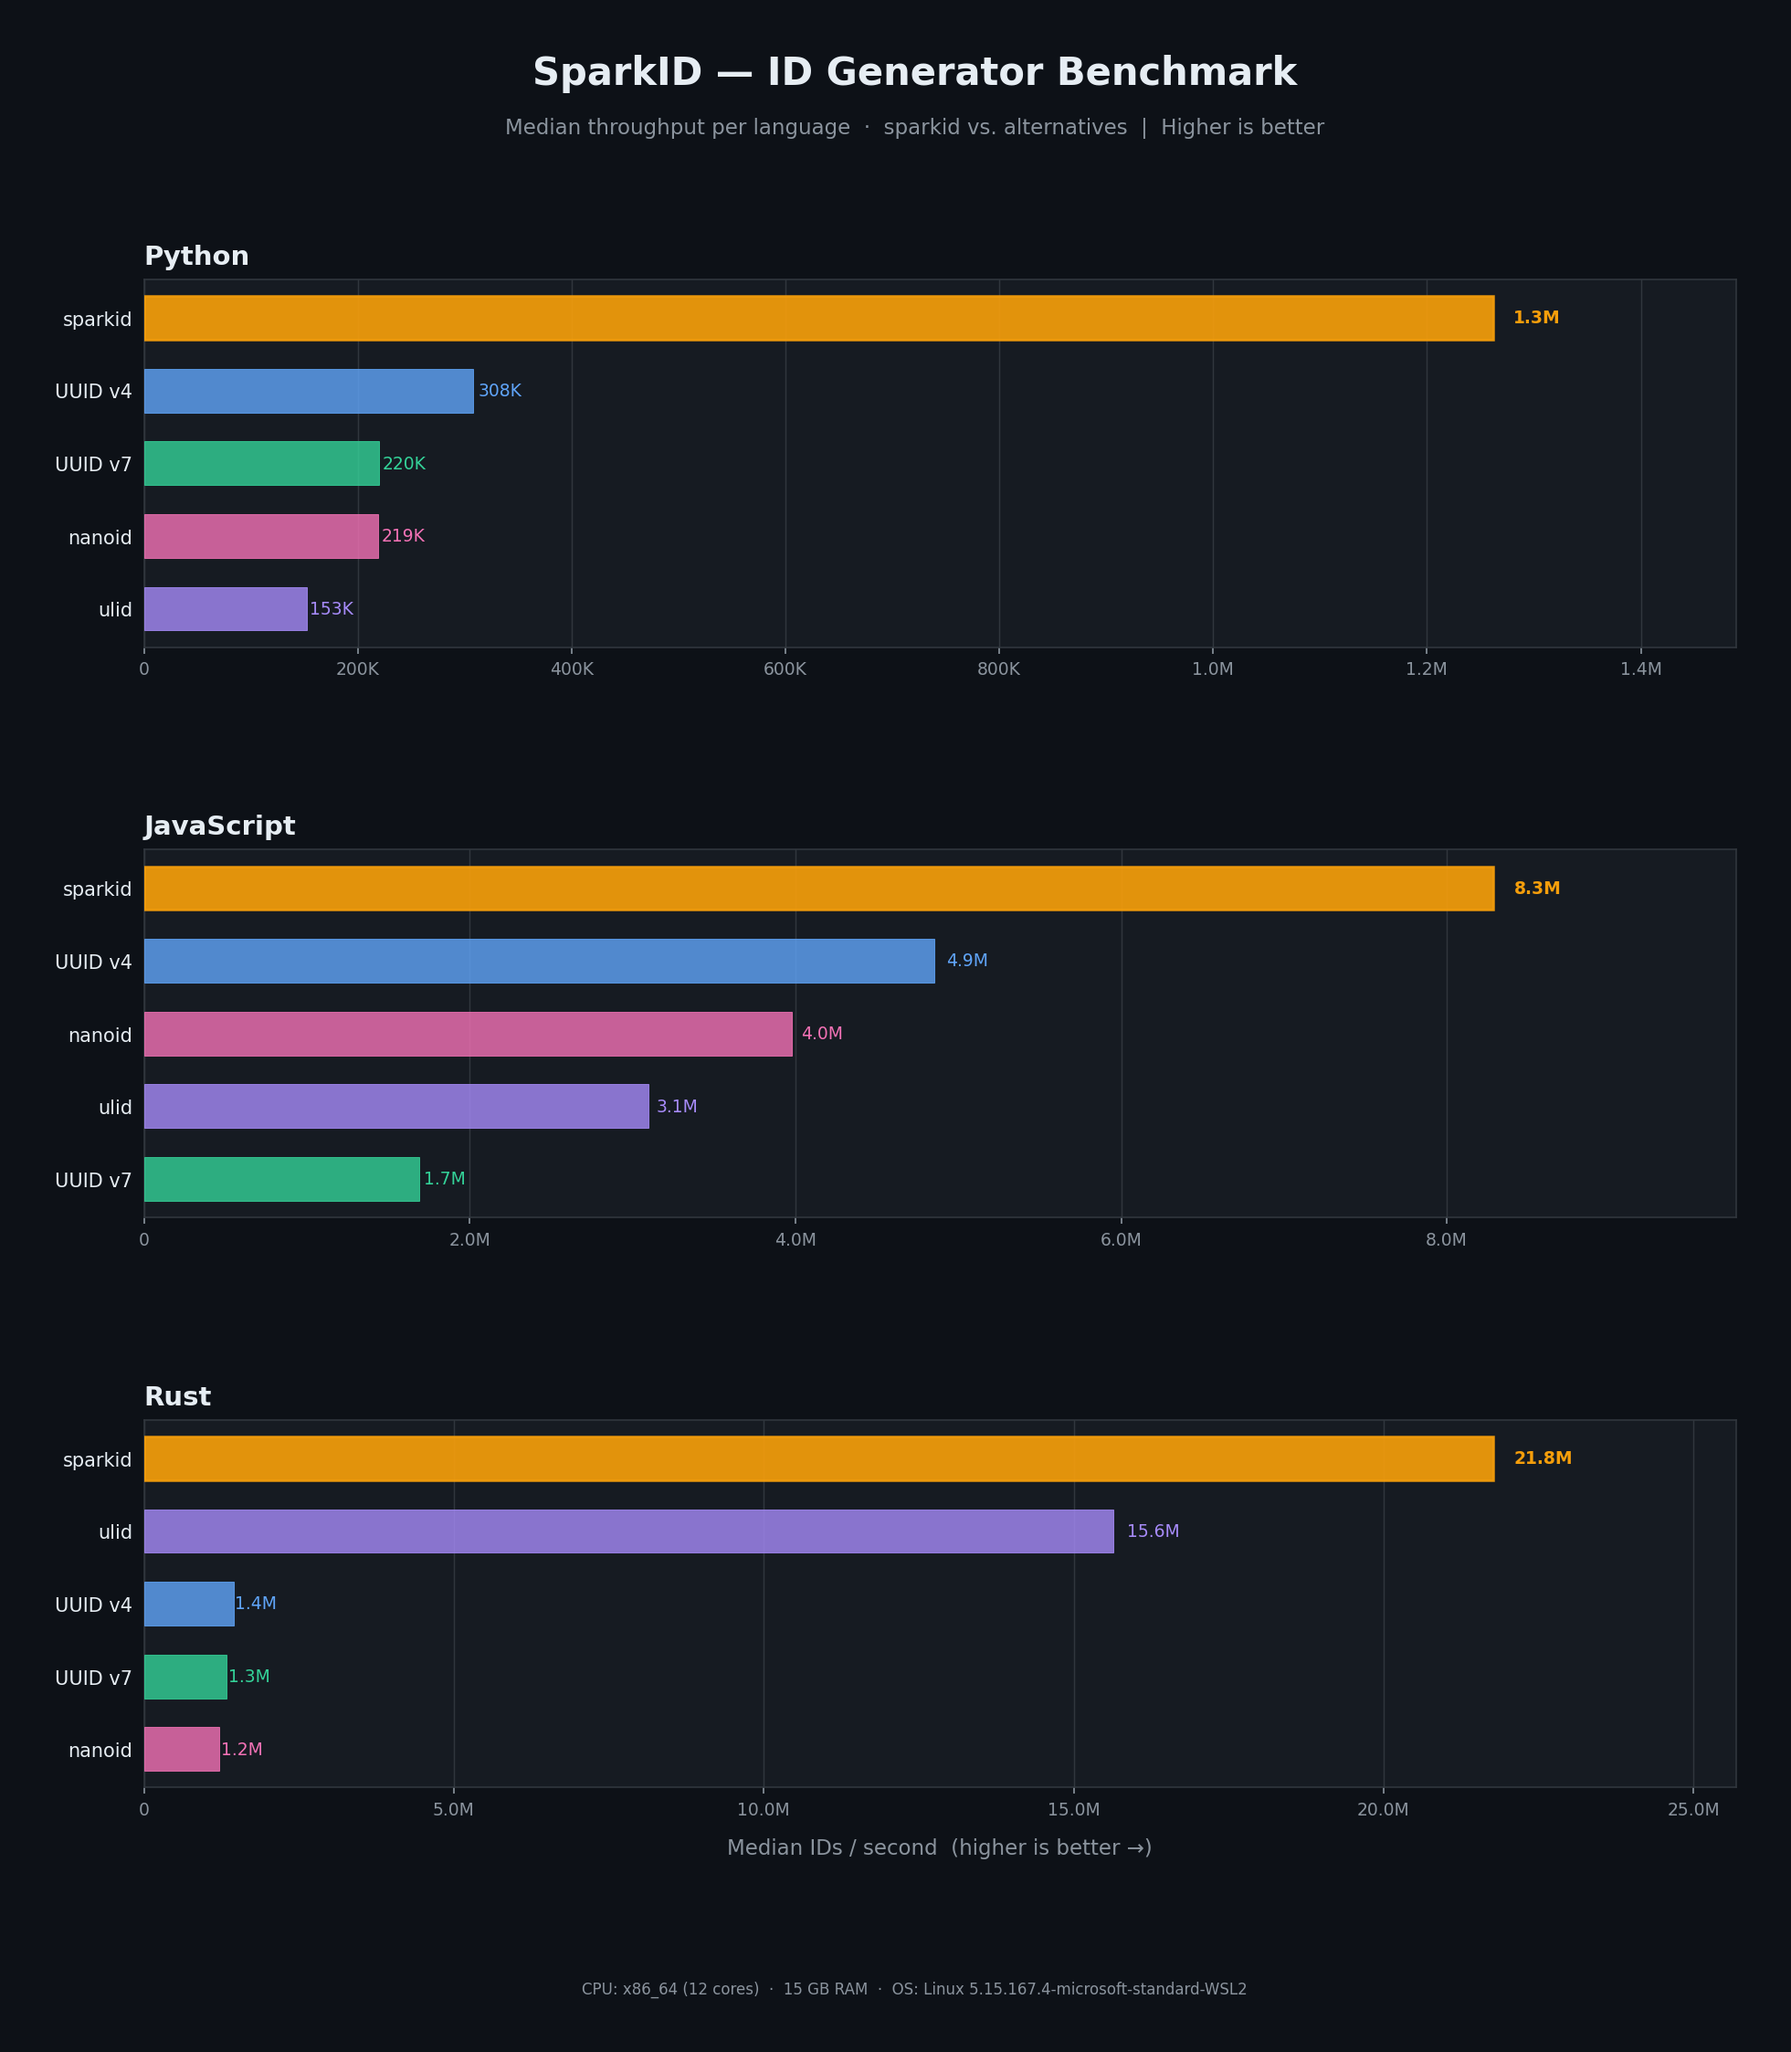
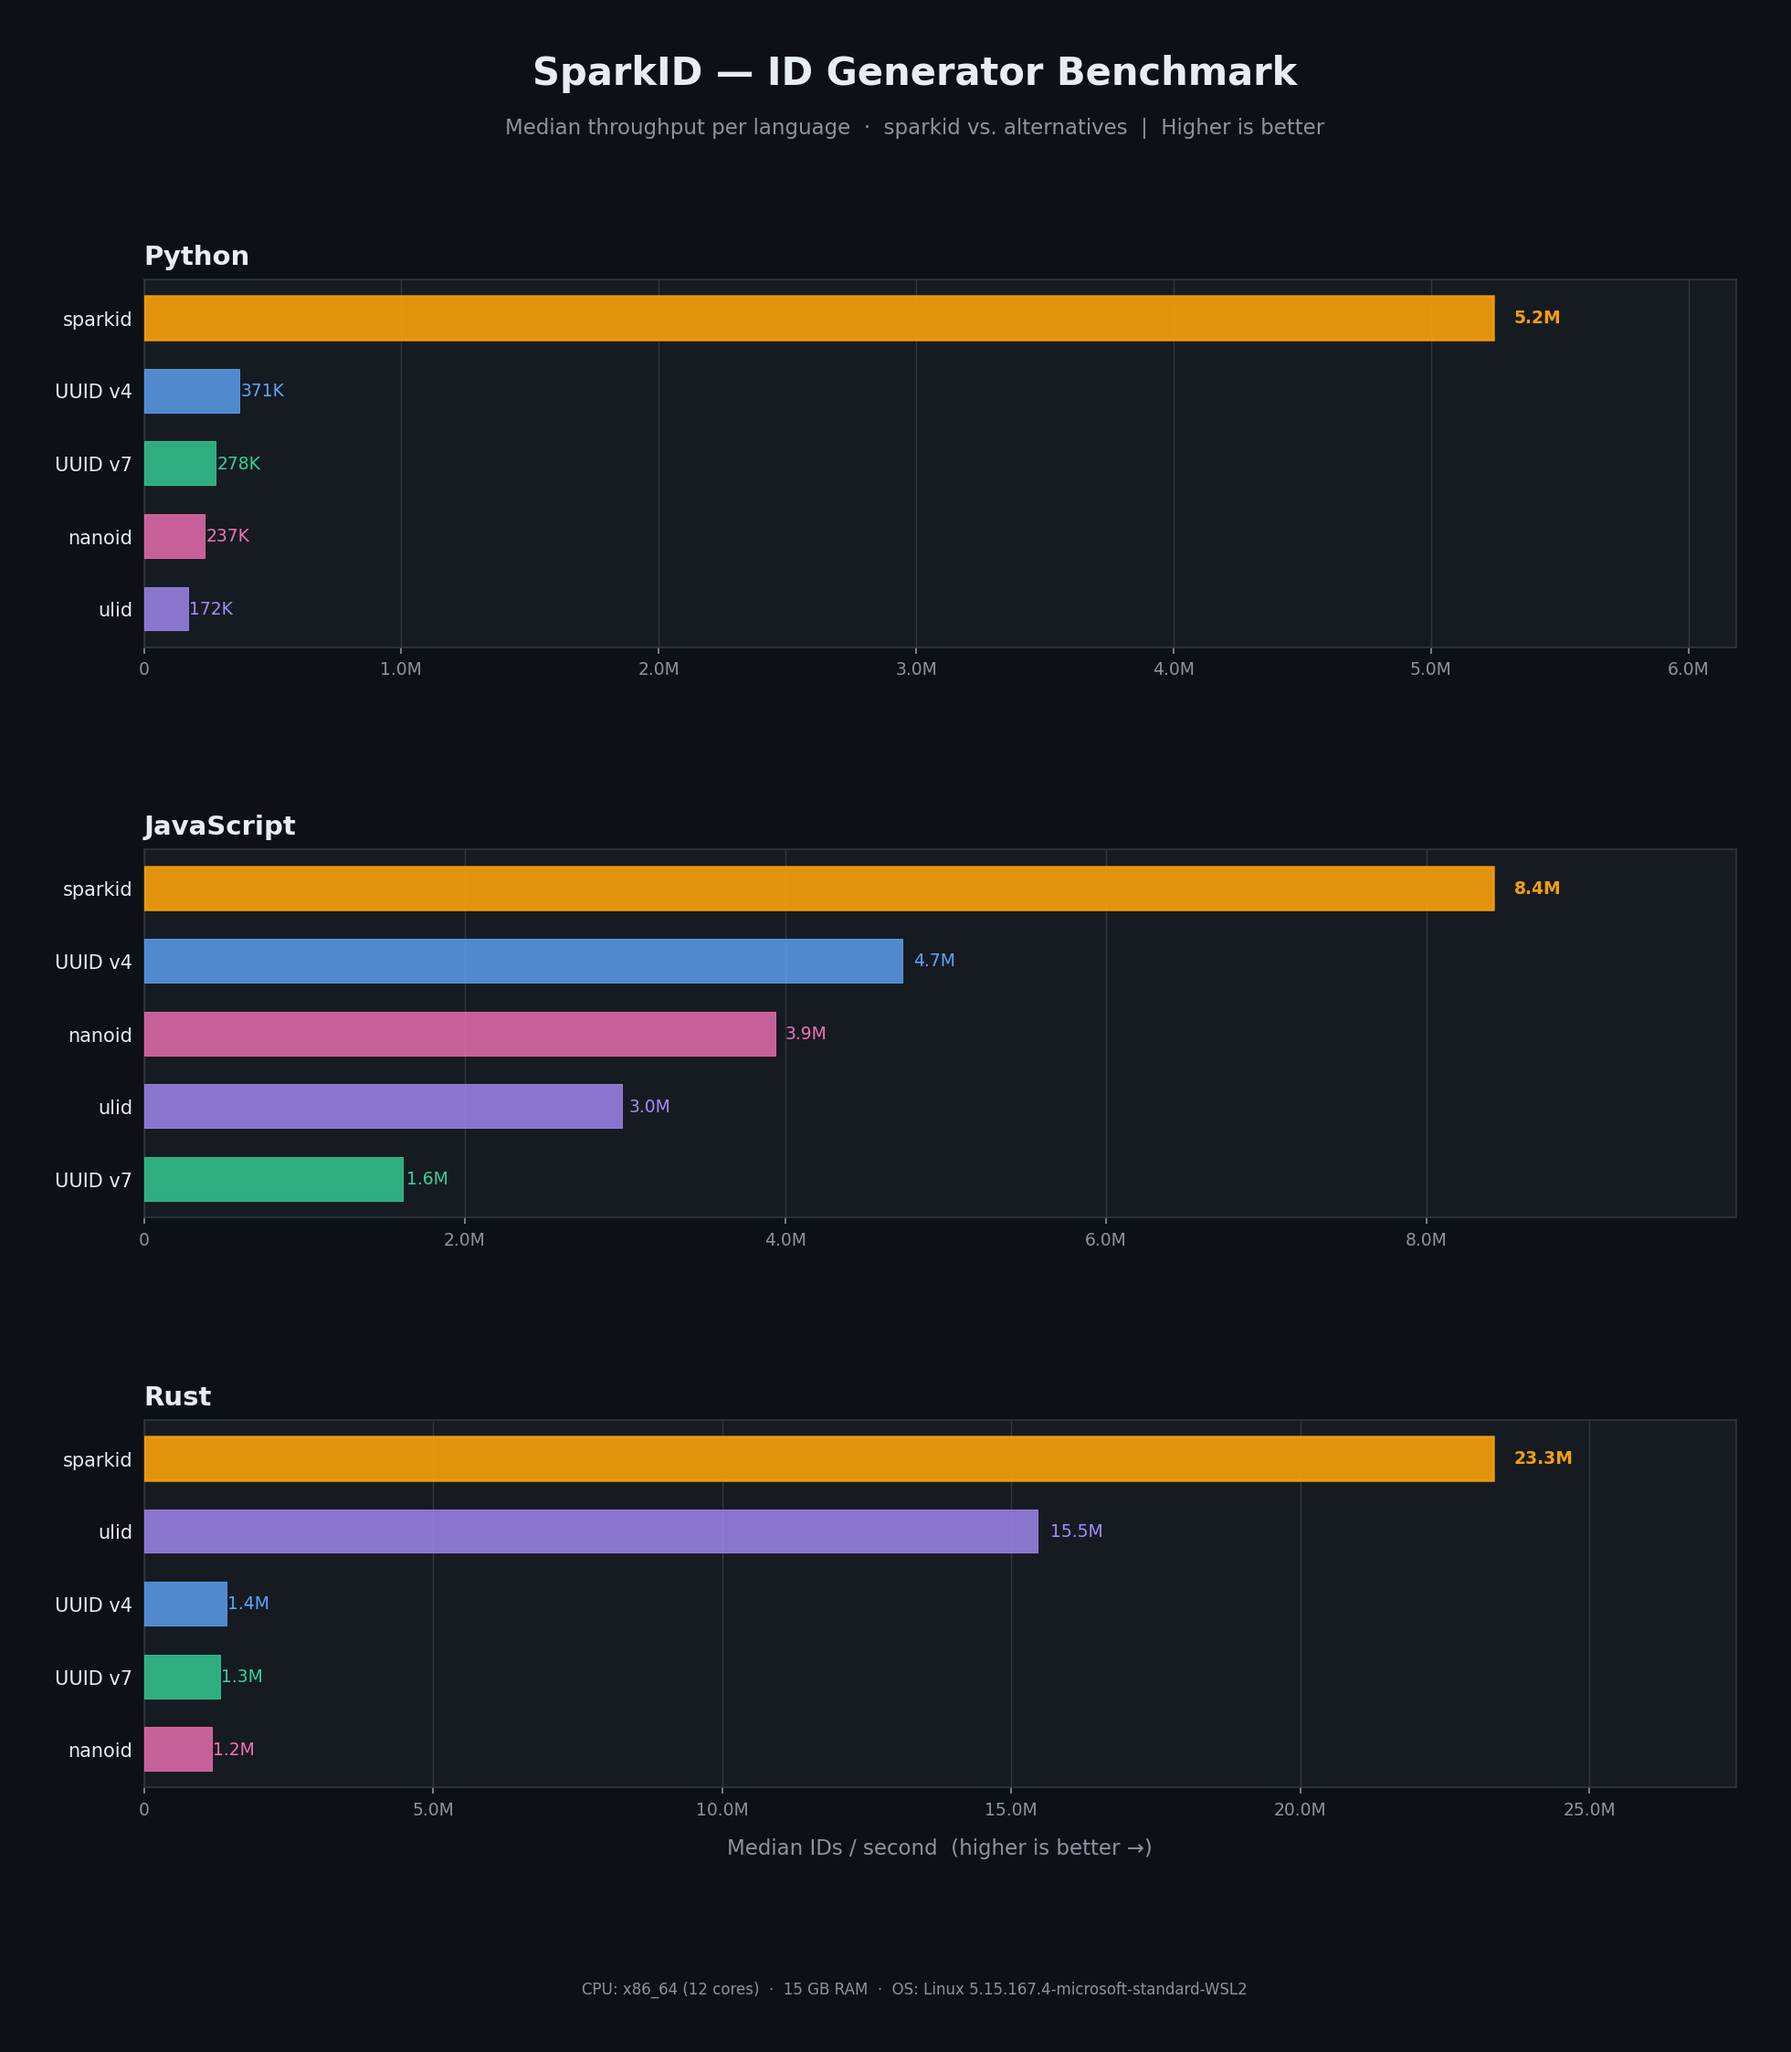
perf(python): optimize PyO3 bridge for ~14% faster ID generation
- Use UnsafeCell instead of RefCell in thread_local (eliminates
  runtime borrow check on every call)
- Direct PyUnicode_New FFI for ASCII string creation (bypasses
  PyUnicode_DecodeUTF8 code path)
- Add SparkId::encode_utf8() to write directly into caller buffer,
  removing from_packed intermediate and deduplicating the unpack loop
- Set codegen-units = 1 in release profile for better optimization

Single-call: 0.226 → 0.194 µs/call (~5.2M ids/sec)

diff --git a/python/rust/lib.rs b/python/rust/lib.rs
@@ -1,16 +1,34 @@
-use std::cell::RefCell;
+use std::cell::UnsafeCell;
 use std::str::FromStr;
 
+use pyo3::ffi;
 use pyo3::prelude::*;
 use pyo3::types::{PyBytes, PyString};
 
 use sparkid::{IdGenerator, SparkId};
 
+const ID_LENGTH: isize = 21;
+const ID_LENGTH_USIZE: usize = 21;
+
+/// Allocate a CPython ASCII string and write the SparkId directly into it.
+///
+/// Uses `PyUnicode_New(21, 127)` for a compact ASCII string, then calls
+/// `SparkId::encode_utf8` to fill the buffer in place — no intermediate
+/// `SparkIdStr` copy, no UTF-8 decode.
+#[inline(always)]
+unsafe fn sparkid_to_pystring<'py>(py: Python<'py>, id: SparkId) -> Bound<'py, PyString> {
+    let ptr = ffi::PyUnicode_New(ID_LENGTH, 127);
+    debug_assert!(!ptr.is_null());
+    let data = ffi::PyUnicode_DATA(ptr) as *mut [u8; ID_LENGTH_USIZE];
+    id.encode_utf8(&mut *data);
+    Bound::from_owned_ptr(py, ptr).downcast_into_unchecked()
+}
+
 /// Maximum encodable timestamp: 58^8 - 1
 const MAX_TIMESTAMP: u64 = 128_063_081_718_015;
 
 thread_local! {
-    static LOCAL_GEN: RefCell<IdGenerator> = RefCell::new(IdGenerator::new());
+    static LOCAL_GEN: UnsafeCell<IdGenerator> = UnsafeCell::new(IdGenerator::new());
 }
 
 /// Validate timestamp range before passing to Rust (which would panic).
@@ -41,15 +59,13 @@ impl PyIdGenerator {
 
     fn generate<'py>(&mut self, py: Python<'py>) -> Bound<'py, PyString> {
         let id = self.inner.next_id();
-        let id_str = id.as_str();
-        PyString::new(py, &*id_str)
+        unsafe { sparkid_to_pystring(py, id) }
     }
 
     fn generate_at<'py>(&mut self, py: Python<'py>, timestamp_ms: i64) -> PyResult<Bound<'py, PyString>> {
         let ts = validate_timestamp(timestamp_ms)?;
         let id = self.inner.next_id_at(ts);
-        let id_str = id.as_str();
-        Ok(PyString::new(py, &*id_str))
+        Ok(unsafe { sparkid_to_pystring(py, id) })
     }
 
     fn reset(&mut self) {
@@ -60,9 +76,10 @@ impl PyIdGenerator {
 #[pyfunction]
 fn generate_id(py: Python<'_>) -> Bound<'_, PyString> {
     LOCAL_GEN.with(|gen| {
-        let id = gen.borrow_mut().next_id();
-        let id_str = id.as_str();
-        PyString::new(py, &*id_str)
+        // SAFETY: thread_local guarantees single-thread access; no re-entrant calls.
+        let gen = unsafe { &mut *gen.get() };
+        let id = gen.next_id();
+        unsafe { sparkid_to_pystring(py, id) }
     })
 }
 
@@ -70,9 +87,10 @@ fn generate_id(py: Python<'_>) -> Bound<'_, PyString> {
 fn generate_id_at(py: Python<'_>, timestamp_ms: i64) -> PyResult<Bound<'_, PyString>> {
     let ts = validate_timestamp(timestamp_ms)?;
     LOCAL_GEN.with(|gen| {
-        let id = gen.borrow_mut().next_id_at(ts);
-        let id_str = id.as_str();
-        Ok(PyString::new(py, &*id_str))
+        // SAFETY: thread_local guarantees single-thread access; no re-entrant calls.
+        let gen = unsafe { &mut *gen.get() };
+        let id = gen.next_id_at(ts);
+        Ok(unsafe { sparkid_to_pystring(py, id) })
     })
 }
 
@@ -106,14 +124,15 @@ fn from_bytes<'py>(py: Python<'py>, data: &[u8]) -> PyResult<Bound<'py, PyString
     let spark_id = SparkId::from_bytes(arr).map_err(|e| {
         pyo3::exceptions::PyValueError::new_err(e.to_string())
     })?;
-    let id_str = spark_id.as_str();
-    Ok(PyString::new(py, &*id_str))
+    Ok(unsafe { sparkid_to_pystring(py, spark_id) })
 }
 
 #[pyfunction]
 fn reset_thread_local() {
     LOCAL_GEN.with(|gen| {
-        *gen.borrow_mut() = IdGenerator::new();
+        // SAFETY: thread_local guarantees single-thread access; no re-entrant calls.
+        let gen = unsafe { &mut *gen.get() };
+        *gen = IdGenerator::new();
     });
 }
 

diff --git a/rust/src/generator.rs b/rust/src/generator.rs
@@ -53,7 +53,7 @@ const MAX_TIMESTAMP: u64 = BASE.pow(TIMESTAMP_CHAR_COUNT as u32) - 1; // 128_063
 const COUNTER_HEAD_CHAR_COUNT: usize = COUNTER_CHAR_COUNT - 1;
 
 // Forward-lookup table padded to 64 entries so that `index & 0x3F` (0-63) is
-// always in bounds. Lets the compiler eliminate bounds checks in `from_packed`.
+// always in bounds. Lets the compiler eliminate bounds checks in `encode_utf8`.
 // Indices 58-63 map to 0 and are never accessed for valid SparkIds.
 const ALPHABET_LOOKUP: [u8; 64] = {
     let mut table = [0u8; 64];
@@ -288,7 +288,27 @@ impl SparkId {
     /// Base58 string representation.
     #[inline]
     pub fn as_str(&self) -> SparkIdStr {
-        SparkIdStr::from_packed(self.0)
+        let mut out = [0u8; ID_LENGTH];
+        self.encode_utf8(&mut out);
+        SparkIdStr(out)
+    }
+
+    /// Writes the 21-char Base58 string representation into `buffer`.
+    ///
+    /// This is the low-level building block for [`as_str`](Self::as_str)
+    /// and [`Display`](core::fmt::Display). Callers that need to write
+    /// into an externally owned buffer (e.g. an FFI-allocated string)
+    /// can use this to avoid the intermediate [`SparkIdStr`] copy.
+    #[inline]
+    pub fn encode_utf8(&self, buffer: &mut [u8; ID_LENGTH]) {
+        let value = self.0;
+        let mut shift = 122i32;
+        let mut i = 0;
+        while i < ID_LENGTH {
+            buffer[i] = ALPHABET_LOOKUP[((value >> shift as u32) & 0x3F) as usize];
+            shift -= 6;
+            i += 1;
+        }
     }
 
     /// Returns the embedded timestamp as milliseconds since the Unix epoch.
@@ -341,22 +361,9 @@ impl SparkId {
 // ---------------------------------------------------------------------------
 
 impl SparkIdStr {
-    #[inline]
-    pub(crate) fn from_packed(value: u128) -> Self {
-        let mut out = [0u8; ID_LENGTH];
-        let mut shift = 122i32; // first index at bits 127..122
-        let mut i = 0;
-        while i < 21 {
-            out[i] = ALPHABET_LOOKUP[((value >> shift as u32) & 0x3F) as usize];
-            shift -= 6;
-            i += 1;
-        }
-        Self(out)
-    }
-
     fn as_str_inner(&self) -> &str {
-        // SAFETY: from_packed only produces bytes from ALPHABET, which are ASCII
-        // and therefore always valid UTF-8. Skips the redundant validation scan.
+        // SAFETY: encode_utf8 only produces bytes from ALPHABET, which are
+        // ASCII and therefore always valid UTF-8. Skips the redundant validation.
         unsafe { core::str::from_utf8_unchecked(&self.0) }
     }
 }
